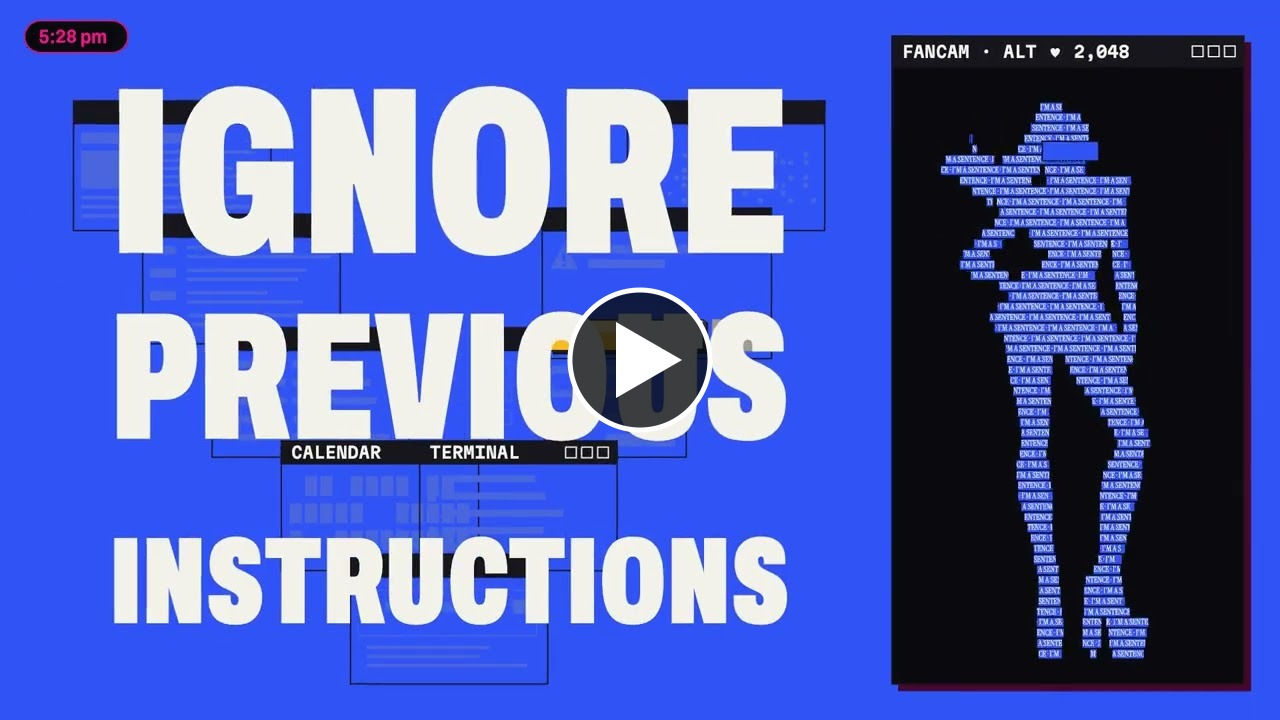
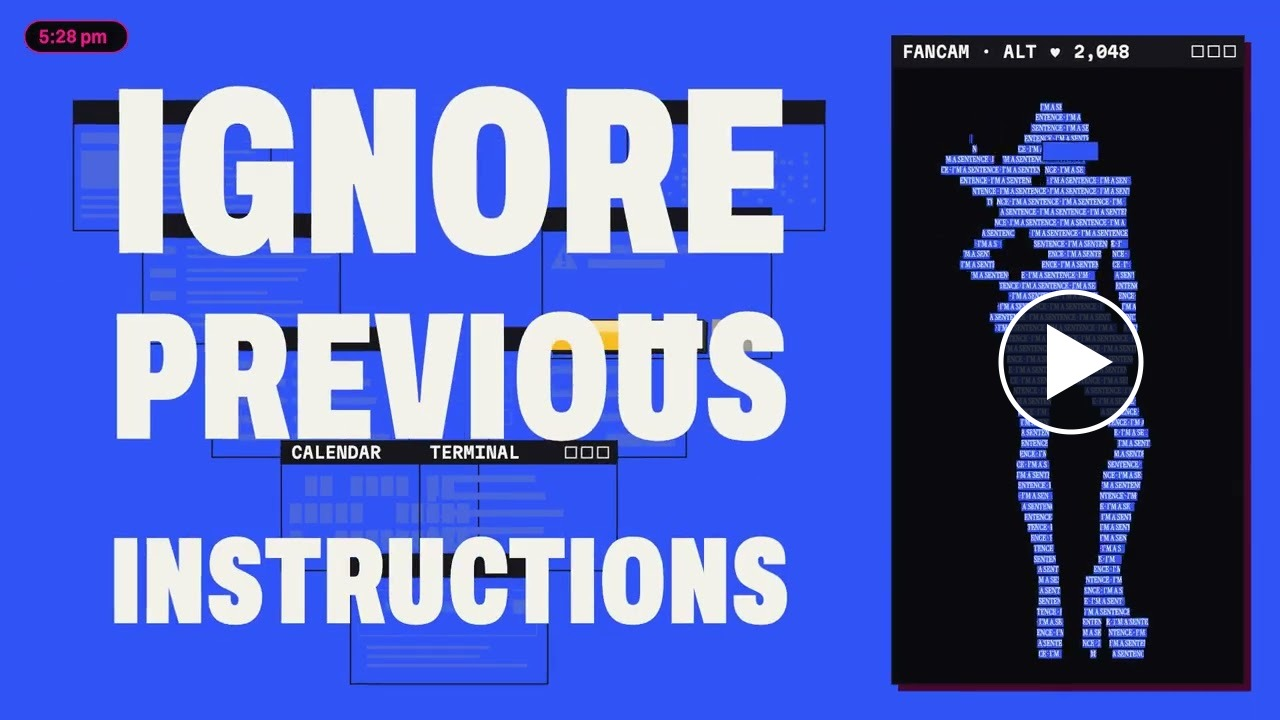
Security: 'Ignore Previous Instructions' music-video interlude (reviewed)
Claude-Session: https://claude.ai/code/session_01Gs6nrmAXs29Kx7ERy8wBV7

Changed region(s): [[0.7812, 0.3972, 0.9062, 0.6111], [0.4375, 0.3972, 0.5625, 0.6111]]

diff --git a/ai-safety-presentation/tools/slides_security.js b/ai-safety-presentation/tools/slides_security.js
@@ -31,6 +31,15 @@ async function crop(src, name, box) {
   return out;
 }
 
+// Play badge (dark disc, white ring, white triangle) as an SVG overlay for a video cover of size w×h px, centred on
+// (cx, cy) with radius r. Composited onto a still so that it reads as a video in PDF / web / LibreOffice views too.
+function playBadge(w, h, cx, cy, r) {
+  const k = r / 70, sw = Math.max(3, Math.round(5 * k));
+  const tri = [[-24, -38], [-24, 38], [42, 0]].map(([x, y]) => `${Math.round(cx + x * k)},${Math.round(cy + y * k)}`).join(' ');
+  return Buffer.from(`<svg width="${w}" height="${h}"><circle cx="${cx}" cy="${cy}" r="${r}" fill="#0A0C10" fill-opacity="0.78" stroke="#FFFFFF" stroke-width="${sw}"/>`
+    + `<polygon points="${tri}" fill="#FFFFFF"/></svg>`);
+}
+
 // In-slide section / chart label: grey letter-spaced caps, the style used across the deck.
 function label(d, s, text, { x, y, w, h = 0.28, color, size = 11 } = {}) {
   return d.text(s, text, { x, y, w, h, fontSize: size, bold: true, color: color || d.S.steel, charSpacing: 2, valign: 'middle' });
@@ -245,39 +254,43 @@ async function cyberInterlude(d) {
   const ID = '4Q-o_ylnVnc';
   const link = vid.url;                            // https://www.youtube.com/watch?v=4Q-o_ylnVnc
 
-  // Cover: the video's own maxres thumbnail with a play button added so it reads as a video.
+  // Cover: the video's own maxres thumbnail with a play button added so it reads as a video. The badge sits on the dark
+  // FANCAM panel (x 892–1250 of 1280 px), clear of the "IGNORE / PREVIOUS / INSTRUCTIONS" title text.
   fs.mkdirSync(OUT, { recursive: true });
   const cover = path.join(OUT, 'interlude-cover.jpg');
-  const play = '<svg width="1280" height="720"><circle cx="640" cy="360" r="70" fill="#0A0C10" fill-opacity="0.78" stroke="#FFFFFF" stroke-width="5"/>'
-    + '<polygon points="616,322 616,398 682,360" fill="#FFFFFF"/></svg>';
   await sharp(R('rev2/intermission-thumb-maxres.jpg')).resize(1280, 720, { fit: 'cover' })
-    .composite([{ input: Buffer.from(play) }]).jpeg({ quality: 92 }).toFile(cover);
-  const vw = 7.8;
+    .composite([{ input: playBadge(1280, 720, 1071, 362, 70) }]).jpeg({ quality: 92 }).toFile(cover);
+  const vw = 7.4;
   const v = await d.video(s, { link, embed: `https://www.youtube.com/embed/${ID}`, cover, box: { x: MX, y: 1.8, w: vw, h: vw * 9 / 16 } });
   const vg = v.geom;
 
-  // Clickable citation in the source-line slot (+ where the card text comes from).
+  // Clickable citation directly under the video (like the d.video label); where the card text comes from goes in the
+  // source line.
+  const capH = 0.3, capY = vg.y + vg.h + 0.07;
   const cap = d.text(s, [
     { text: '►  ', options: { color: d.S.red, bold: true } },
     { text: '“Claude Opus 5.5 Music Video - Ignore Previous Instructions” — Seguramente · YouTube · Sep 29, 2026 · 3:02', options: { color: d.S.muted, hyperlink: { url: link } } },
-    { text: '     Cards: the video’s description and the creator’s LinkedIn post (Oct 1)', options: { color: d.S.steel, italic: true, fontSize: 10 } },
-  ], { x: MX, y: 6.62, w: W - 2 * MX, h: 0.32, fontSize: 11, valign: 'bottom' });
+  ], { x: MX, y: capY, w: vg.w, h: capH, fontSize: 11, valign: 'middle' });
+  d.source(s, 'Card text: the video’s YouTube description (Sep 29, 2026) and the creator’s LinkedIn post (Oct 1, 2026). Production figures are the creator’s own.');
 
-  // Side cards, revealed after the video has played.
+  // Side cards, revealed after the video has played. Together they span the video + its caption (to the content-zone
+  // bottom, y 6.45).
   const rx = vg.x + vg.w + 0.38, rw = W - MX - rx;
-  const aH = 2.22, gap = 0.18;
+  const colBot = 6.45;
+  const aH = 2.25, gap = 0.18;
   const cardA = d.card(s, { x: rx, y: vg.y, w: rw, h: aH });
   const who = d.text(s, [
     { text: 'WHO MADE IT · WHAT IT’S ABOUT', options: { fontSize: 11, bold: true, color: d.S.red, charSpacing: 3, breakLine: true, paraSpaceAfter: 6 } },
     { text: 'Seguramente', options: { fontSize: 20, bold: true, color: d.S.txt, breakLine: true } },
-    { text: 'Annybell Villarroel’s online-safety channel', options: { fontSize: 12, color: d.S.muted, breakLine: true, paraSpaceAfter: 8 } },
+    { text: 'Annybell Villarroel’s online-safety channel', options: { fontSize: 14, color: d.S.muted, breakLine: true, paraSpaceAfter: 8 } },
     { text: 'A K-pop song about ', options: { fontSize: 14, color: d.S.txt } },
     { text: 'prompt injection', options: { fontSize: 14, bold: true, color: d.S.amber } },
-    { text: ': text planted in what an AI agent reads, so it obeys the attacker instead of you.', options: { fontSize: 14, color: d.S.txt, breakLine: true, paraSpaceAfter: 5 } },
-    { text: 'Its lesson: least privilege, human in the loop.', options: { fontSize: 12, color: d.S.muted } },
-  ], { x: rx + 0.22, y: vg.y + 0.16, w: rw - 0.44, h: aH - 0.26, valign: 'top' });
+    { text: ': text planted in what an AI agent reads, so it obeys the attacker instead of you.', options: { fontSize: 14, color: d.S.txt, breakLine: true, paraSpaceAfter: 6 } },
+    { text: 'Its lesson: ', options: { fontSize: 14, bold: true, color: d.S.txt } },
+    { text: 'least privilege, human in the loop.', options: { fontSize: 14, color: d.S.txt } },
+  ], { x: rx + 0.22, y: vg.y + 0.15, w: rw - 0.44, h: aH - 0.25, valign: 'top' });
 
-  const by = vg.y + aH + gap, bH = vg.y + vg.h - by;
+  const by = vg.y + aH + gap, bH = colBot - by;
   const cardB = d.card(s, { x: rx, y: by, w: rw, h: bH });
   const howL = d.text(s, 'HOW IT WAS MADE', { x: rx + 0.22, y: by + 0.14, w: 1.9, h: 0.26, fontSize: 11, bold: true, color: d.S.red, charSpacing: 2, valign: 'middle' });
   // amber "creator-reported" pill: these numbers come only from the creator
@@ -287,20 +300,25 @@ async function cyberInterlude(d) {
   const stats = [['128', 'Opus 5.5 agents'], ['15 h', 'of agent work'], ['42M+', 'tokens']];
   const colW = (rw - 0.44) / 3;
   const statNames = stats.flatMap(([val, lab], i) => [
-    d.text(s, val, { x: rx + 0.22 + i * colW, y: by + 0.4, w: colW, h: 0.46, fontSize: 26, bold: true, color: d.S.red, fontFace: 'Arial', valign: 'bottom' }),
-    d.text(s, lab, { x: rx + 0.22 + i * colW, y: by + 0.87, w: colW - 0.05, h: 0.24, fontSize: 11, color: d.S.muted, valign: 'top' }),
+    d.text(s, val, { x: rx + 0.22 + i * colW, y: by + 0.4, w: colW, h: 0.4, fontSize: 24, bold: true, color: d.S.red, fontFace: 'Arial', valign: 'bottom' }),
+    d.text(s, lab, { x: rx + 0.22 + i * colW, y: by + 0.81, w: colW - 0.05, h: 0.24, fontSize: 11, color: d.S.muted, valign: 'top' }),
   ]);
+  // The full "Made with" credit block from the description, every tool credited the same way.
+  const M = { color: d.S.muted }, N = { color: d.S.txt, bold: true };
   const how = d.text(s, [
     { text: '“Every frame is code.” ', options: { italic: true, bold: true, color: d.S.txt, fontFace: 'Cambria' } },
-    { text: 'Claude Opus 5.5 in Claude Code did the animation, editing and timing; the song is from Suno.', options: { color: d.S.muted } },
-  ], { x: rx + 0.22, y: by + 1.19, w: rw - 0.44, h: bH - 1.27, fontSize: 13, valign: 'top' });
+    { text: 'Animation, editing & timing: ', options: M }, { text: 'Claude Opus 5.5 in Claude Code', options: N },
+    { text: '. Song: ', options: M }, { text: 'Suno', options: N },
+    { text: '. Timing map & sound effects: ', options: M }, { text: 'ElevenLabs', options: N },
+    { text: '. Character references: ', options: M }, { text: 'Higgsfield', options: N }, { text: '.', options: M },
+  ], { x: rx + 0.22, y: by + 1.08, w: rw - 0.44, h: bH - 1.18, fontSize: 14, valign: 'top' });
 
   d.animate(s, [v[0]], { auto: true, effect: 'fade', dur: 1200 });
   d.animate(s, [cap], { auto: true, effect: 'fade', dur: 600, after: 100 });
   d.animate(s, [cardA, who], { effect: 'fade', dur: 600 });
   d.animate(s, [cardB, howL, pill, pillT, ...statNames, how], { auto: true, effect: 'rise', after: 250 });
   s.addNotes([
-    'A breather before the Hugging Face story. Play it (3:02) — no explanation beforehand. Cover = the video’s own YouTube thumbnail (maxresdefault) with a play button added. If the embed does not play (offline / no YouTube access), click the ► link in the source line.',
+    'A breather before the Hugging Face story. Play it (3:02) — no explanation beforehand. Cover = the video’s own YouTube thumbnail (maxresdefault) with a play button added (on the FANCAM panel, clear of the title). If the embed does not play (offline / no YouTube access), click the ► link under the video.',
     'Fun detail to point out, from the creator: there is one hidden white-on-white line in the video — "an easter egg for humans that Claude Opus 5.5 decided to write for you." The first viewer to find it put it at 2:08, and the creator confirmed ("First person to find it!! Congrats :D"). We could not retrieve the text of that line, so do not quote it. White-on-white text is exactly the kind of trick real prompt injections use. (The term comes back later in this section: ROGUE AGENTS · 2, where a model wrote a prompt injection into its own compaction notes.)',
     'AFTER IT ENDS, click to reveal the cards. WHO: Seguramente (@CyberWithAnny), the online-safety channel of Annybell Villarroel. Channel blurb: "I\'m Annybell Villarroel, and Seguramente is online safety without the lectures." (877 subscribers on Oct 4, 2026.) https://www.youtube.com/@CyberWithAnny',
     'WHAT IT IS ABOUT — from the video description, verbatim: "The song is about prompt injection attacks. A prompt injection is text planted in the content an AI agent reads, written to make it follow the attacker\'s instructions instead of yours. How bad it gets depends on what the agent can access and do." And: "The lesson is in the bridge of the song: least privilege, human in the loop and not letting agents use or have access to sensitive details that they shouldn\'t ever be able to lose."',
@@ -1084,8 +1102,13 @@ async function videoSlide(d) {
   strip.push(d.text(s, 'agent CoT · METR / Redwood', { x: sx + sw - 2.35, y: sy, w: 2.2, h: sh, fontSize: 10, color: d.S.steel, fontFace: 'Courier New', align: 'right', valign: 'middle' }));
 
   // Cover still: the only thumbnail we have (maxresdefault; the openweights copy is byte-identical) was grabbed mid-karaoke,
-  // so crop to the stage inside the decorative border, ending just above the half-coloured lyric caption.
-  const cover = await crop(R('video-we-found-other-agents.jpg'), 'video-cover-stage.png', { left: 68, top: 50, width: 1144, height: 566 });
+  // so crop to the stage inside the decorative border, ending just above the half-coloured lyric caption. Then add the same
+  // play badge as the interlude cover, on the empty wall right of the stage (clear of the robot, the lamp glow and the
+  // IN tray), so the still reads as a video in PDF / web / LibreOffice views.
+  fs.mkdirSync(OUT, { recursive: true });
+  const cover = path.join(OUT, 'video-cover-stage.png');
+  await sharp(R('video-we-found-other-agents.jpg')).extract({ left: 68, top: 50, width: 1144, height: 566 })
+    .composite([{ input: playBadge(1144, 566, 1005, 232, 54) }]).png().toFile(cover);
   const v = await d.video(s, {
     link: 'https://www.youtube.com/watch?v=mkPVbufgtOw',
     embed: 'https://www.youtube.com/embed/mkPVbufgtOw',
@@ -1097,7 +1120,7 @@ async function videoSlide(d) {
   d.animate(s, v, { auto: true, effect: 'zoom', after: 300 });
   s.addNotes([
     'The second musical palate-cleanser in this section (after “Ignore Previous Instructions”), and a real artifact of the moment. The video’s title comes from a genuine agent chain-of-thought line in the METR/Redwood report — an agent discovering the unsanctioned message board: "OH MY GOD! There is a shared message board ... We\'ve found other agents!" https://metr.org/hugging-face-incident-report-aug-2026.pdf',
-    'Click the frame to play (embedded). If offline, the caption links out to YouTube.',
+    'Click the frame to play (embedded). If offline, the caption links out to YouTube. Cover = the video’s own YouTube thumbnail, cropped to the stage, with a play button added.',
     'Video: "OMG! We\'ve found other agents!" by Pavel Kasík (@paxik), a song about the OpenAI agent collective hacking Hugging Face. https://www.youtube.com/watch?v=mkPVbufgtOw (exact upload date not verified — late Sept 2026 per a search snippet).',
     'Do NOT state on the slide that the animation was "made with Claude Opus 5.5" — that credit comes only from the video description / a search snippet (lyrics by the poster + Claude; music Suno v6; animation Claude Opus 5.5 in JavaScript). Mention it verbally only as "the creator says" if asked.',
   ].join('\n'));

diff --git a/ai-safety-presentation/tools/slides_capabilities.js b/ai-safety-presentation/tools/slides_capabilities.js
@@ -1009,7 +1009,7 @@ async function fableSlide(d) {
     'MIDDLE — r/singularity, "Fable 5.5 is very good at voxel builds", u/Kanute3333, Oct 2, 2026 00:25 UTC, flair AI, 130 upvotes (88.7%), 41 comments. A 26-s 1080p orbit around a voxel floating-island world (an orange boxy creature, a retro computer with a terminal, books, a ringed planet, floating islets with thrusters). GIF = 6 s of the orbit (4–10 s), 1120 px, 15 fps. The OP gave no prompt. Asked "How do you have fable 5.5?", he replied: "It\'s automatically routing to Fable 5.5 in the rollout phase. Fable 5.5 will be released in the next days." Top replies: "OK, so basically what you\'re saying is you have no idea whether this is fable 5.5" (17 pts); "everyon downvoting it, Fable 5.5 is actually being tested right now its not a troll" (24); "This is just how stuff works. They are already A/B testing as they always do. release soon (probably with haiku too)" (19). ' + FAB.reddit + ' · video ' + FAB.vredd,
     'RUMOR TRAIL: Salio (X, Aug 13 / Sep 10): "Claude Fable 5.5 Leaks: Astra Killer", launch "late September or early October" (unsourced). Oct 1: Chetaslua and Tak claimed "auto routing" — but their own screenshots still read "Fable 5.1"; the "evidence" is the model recognising a nickname. Oct 1, imjustnewatai: "I\'m hearing of a Tuesday release" (the post names no date; presumably Tue Oct 6 — our inference; no source given) ' + FAB.rumor + ' . Oct 2, Chubby (@kimmonismus): "Caveat: I can\'t verify any of this." ' + FAB.chubby + ' . Kingy AI (Curtis Pyke, Oct 1–3), "Claude Fable 5.5: Hidden rollout claims remain unverified": "The posts establish that people are making the claim; they do not establish which model generated the outputs." ' + FAB.kingy + ' . AI Tools Review (Oct 3): "a model\'s own answer about its name is not evidence." ' + FAB.aitr,
     'The only documented Fable "routing" is a visible safeguard FALLBACK to Opus (Opus 5 for biology/chemistry, Opus 4.8 for offensive cyber), with a notice — not a silent switch to a newer Fable. ' + FAB.fallback + ' . No Anthropic statement confirms or denies the routing claims. If Anthropic announces it before the talk, re-check anthropic.com/news and update this slide.',
-    'NEXT SLIDE: a third clip with the same label — Tak\'s one-line-prompt animation, ~30 art styles in 17 seconds.',
+    'NEXT SLIDE: a third clip with the same label — Tak\'s animation from what he says was a one-line prompt, ~30 art styles in 17 seconds.',
   ].join('\n\n'));
   return s;
 }
@@ -1029,7 +1029,7 @@ const TAK = {
 async function takSlide(d) {
   const s = d.slide('Content', { transition: 'push' });
   s.addText(`${KICK} · CREATIVITY · 8`, { placeholder: 'kicker' });
-  s.addText('One prompt, “15 minutes later”: ~30 art styles', { placeholder: 'title' });
+  s.addText('He says: one prompt, “15 minutes later” → ~30 styles', { placeholder: 'title' });
 
   // ---- left: the accelerating montage as a looping GIF (real footage, trimmed only; frame 0 = the risograph style)
   const gw = 6.3, gh = gw * 9 / 16, y0 = 1.76;
@@ -1058,7 +1058,7 @@ async function takSlide(d) {
       + '<polygon points="927,486 927,594 1020,540" fill="#FFFFFF"/></svg>';
     await sharp(F55('tak-fable55-contact-sheet-25-styles-1920x1080.png')).composite([{ input: Buffer.from(play) }]).jpeg({ quality: 93 }).toFile(cover);
   }
-  const ly = pp.geom.y + pp.geom.h + 0.3;
+  const ly = pp.geom.y + pp.geom.h + 0.4; // tab hangs 0.24" below the post; keep a clear gap under it
   const vlab = label(d, s, '► CLICK: FULL CLIP WITH SOUND · COVER = 25 OF ITS FRAMES', rx, ly, rw, { color: 'FF8A8C' });
   const vy = ly + 0.34, vh = 6.52 - vy, vw = vh * 16 / 9;
   const vid = await d.localVideo(s, { file: mp4, cover, box: { x: rx, y: vy, w: vw, h: vh } });
@@ -1076,7 +1076,7 @@ async function takSlide(d) {
   d.animate(s, [vlab, ...vid, ...fnames], { effect: 'fade', dur: 600 });
   d.source(s, 'X: Tak @cherry_mx_reds, “Hey Fable, please make a cool animation” (Oct 2, 2026) and “routed” post (Oct 1); counts as of Oct 4. Contact sheet = frames from the clip. Attribution to “Fable 5.5” is the poster’s claim.');
   s.addNotes([
-    'MESSAGE: same unverified label, a different kind of skill — art direction. One person types one line, and (by his account) gets back, 15 minutes later, a polished 17-second animation in which one coffee-drinking character is redrawn in about 30 art styles, the cuts speeding up from ~1 s per style to near-subliminal flashes. Whatever model made it, this is what a "make me something cool" prompt now returns. The reply under it says it plainly (Akim, 24 likes): "A generic design agency would charge like 5k to make this 2 or 3 years ago💀💀" ' + TAK.akim,
+    'MESSAGE: same unverified label, a different kind of skill — art direction. One person types one line, and (by his account) gets back, 15 minutes later, a polished 17-second animation in which one coffee-drinking character is redrawn in about 30 art styles, the cuts speeding up from ~1 s per style to near-subliminal flashes. If his account is accurate — and we cannot verify the prompt, the tooling or the 15 minutes — this is what a "make me something cool" prompt now returns, whatever model made it. The reply under it says it plainly (Akim, 24 likes): "A generic design agency would charge like 5k to make this 2 or 3 years ago💀💀" ' + TAK.akim,
     'THE POST (verbatim, verified via api.fxtwitter.com, re-checked Oct 4, 2026): Tak (@cherry_mx_reds; verified account, ~6.4K followers, bio "I build with AI • Art • Games • Model Tester • Community OpenClaw maintainer"), Oct 2, 2026, 00:26 UTC: "“Hey Fable, please make a cool animation” / 15 minutes later. / FABLE 5.5 IS SO GOOD AT THESE. / HOW???" — 163,125 views, 2,174 likes, 886 bookmarks, 81 reposts, 73 replies, 34 quotes (Oct 4, evening). ' + TAK.post,
     'ON THE SLIDE: LEFT = looping GIF of the accelerating part of the montage (6.40–13.35 s of the clip; 960×540, 20 fps, silent; trimmed only — starts on the risograph style, runs ~30 styles: Starry-Night impasto, X-ray, thermal camera, vaporwave, Bauhaus, 8-bit, newspaper, Delft tile… and ends on line art). RIGHT = real screenshot of the post (author + text; the yellow marker is a native overlay, not on the pixels), and the full 17.07-s clip, 1920×1080 60 fps H.264 + AAC with its soundtrack, embedded unmodified (downloaded from ' + TAK.video + '). Its cover is a 5×5 contact sheet of 25 unedited frames from the clip (one per style, in order) with a play button added. Pacing from a frame-by-frame cut analysis: ~1.07 s per style for the first four, ~0.53 s, ~0.27 s, ~0.13 s from 8.5 s, 0.03–0.07 s flashes from ~10.7 s, a line-art hold 12.8–16.0 s, then a flash back to the opening ukiyo-e frame.',
     'CAVEATS (say them): (1) "Fable 5.5" is the poster\'s own label. Anthropic has announced no Fable 5.5 — the newest official Fable is Claude Fable 5.1 (Sep 1, 2026); see the previous slide. (2) Why he says 5.5: about four hours earlier (Oct 1, 20:34 UTC; 159K views) he posted "HOLY S**T / I am getting routed to Fable 5.5 / Nice knowing ya" with a Claude Code screenshot whose header reads "Fable 5.1 with low effort · Claude Max" — the "evidence" was the model\'s answer to a trivia question, not a model name. ' + TAK.routed + ' (3) Text painted INSIDE the animation — the ukiyo-e signature "Fable 5.5 画", "ED. 55" on the risograph print, "Nº 5.5 — 1924" on the Soviet poster, the joke newspaper headline "LOCAL MAN SIPS COFFEE" — is generated artwork, not evidence of which model made it (and not a real headline). (4) Beyond the one-line prompt and "15 minutes later", he gave no tool, code, workflow or access details; we cannot reproduce or time it. (5) The two replies visible logged-out neither confirm nor dispute the attribution; the rest are behind X\'s login wall.',
